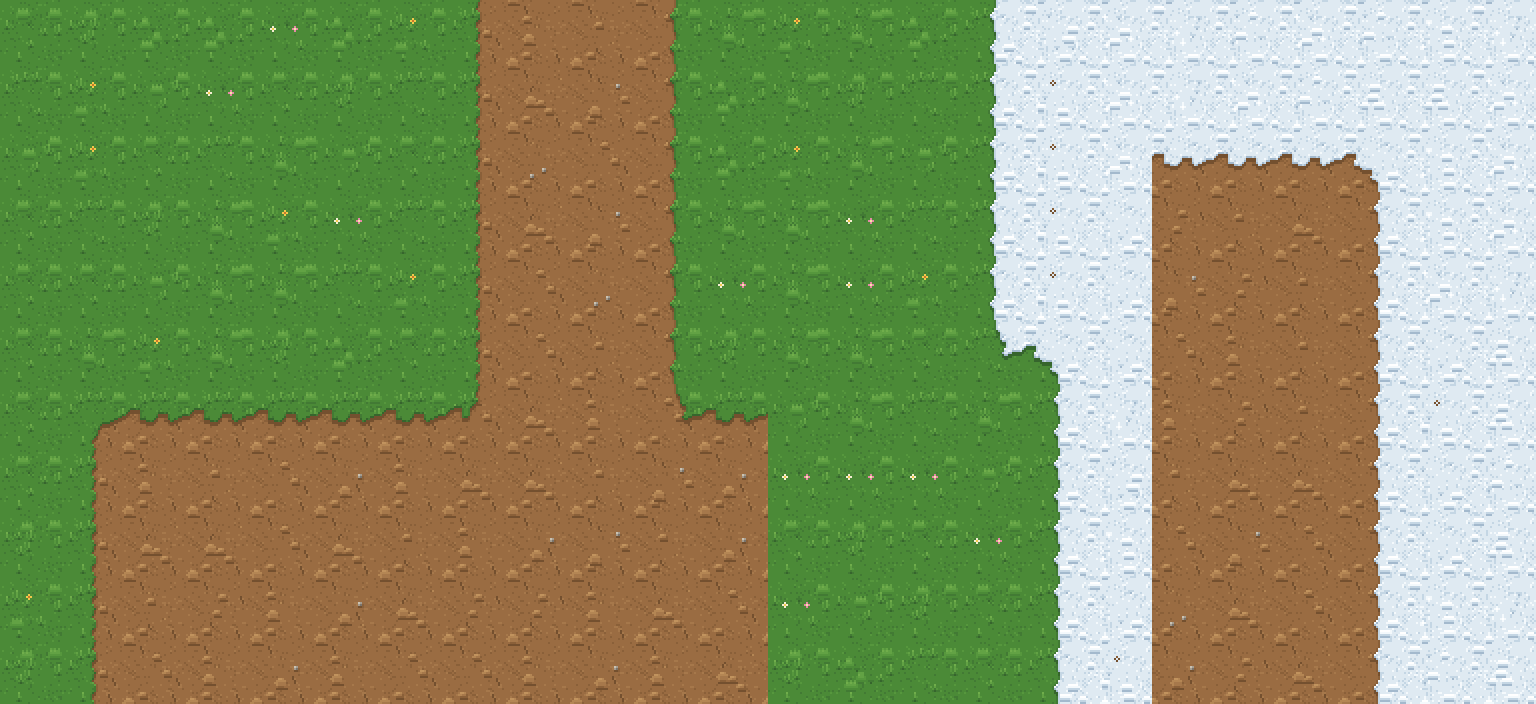
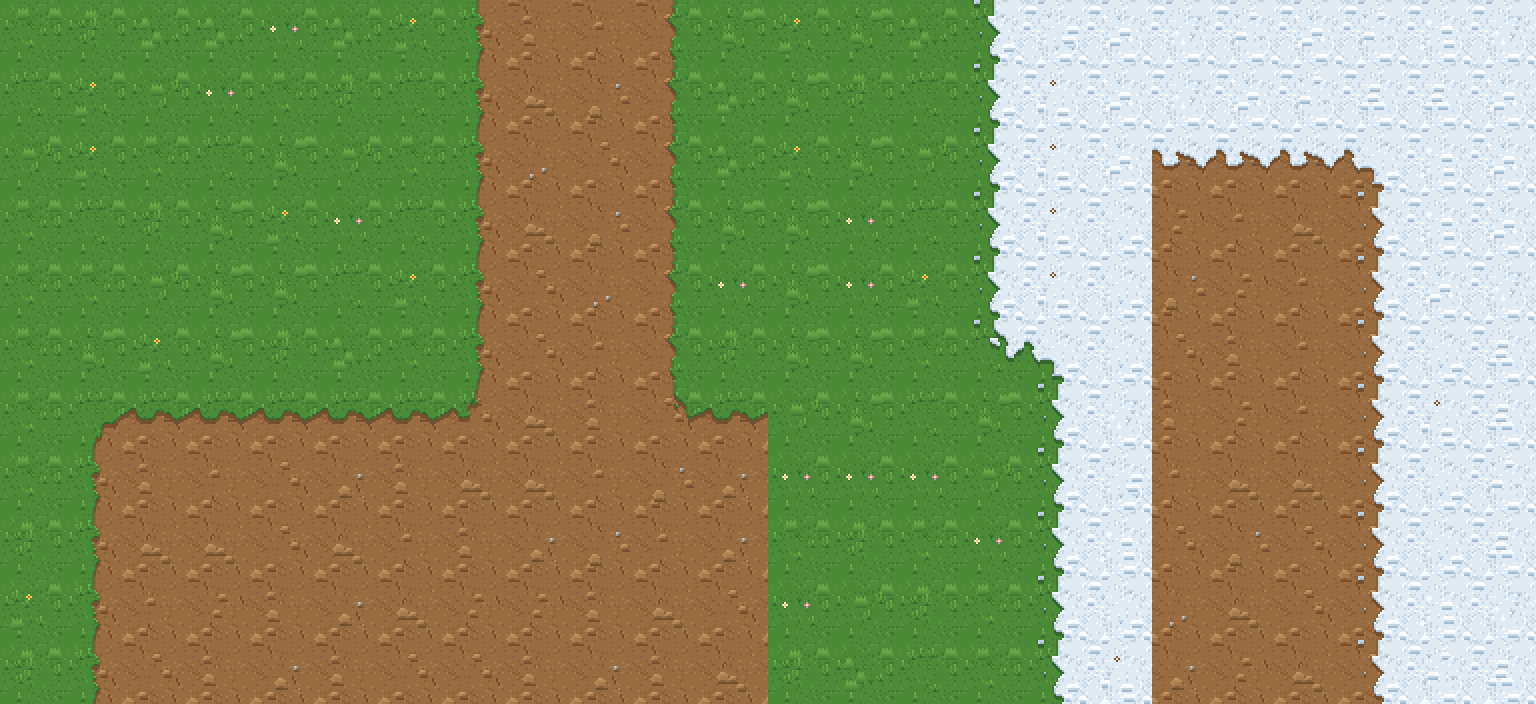
Ground tiles: wavier snow and dirt edges so borders do not cut as straight lines
Claude-Session: https://claude.ai/code/session_01UfpJh2yGrDMaNfv5mQuco1

diff --git a/tools/pixel-art/ground.py b/tools/pixel-art/ground.py
@@ -236,13 +236,14 @@ def smooth(u): return u * u * (3 - 2 * u)
 def wang_tile(lower, upper, nw, ne, sw, se, gi=0, di=0):
     """Köşe bitleri: 1 = lower. Upper dokusu lower'ın üstüne taşar; kenarda gölge ve açık uç."""
     lo, up = MAT[lower], MAT[upper]
+    amp = 0.42 if upper == 'snow' else 0.2      # kar kenarı daha dalgalı, düz çizgi gibi kesilmesin
     d, g = lo['tiles'][di].load(), up['tiles'][gi].load()
     LP, UP = lo['pal'], up['pal']
     im = Image.new('RGBA', (T, T)); px = im.load()
     def is_lower(x, y):
         u, v = smooth((x + 0.5) / T), smooth((y + 0.5) / T)
         m = (nw * (1 - u) * (1 - v) + ne * u * (1 - v) + sw * (1 - u) * v + se * u * v)
-        return m + 0.16 * pnoise(x, y, 77, ((2, 1.0), (4, 0.6))) > 0.5
+        return m + amp * pnoise(x, y, 77, ((2, 1.0), (3, 0.8), (4, 0.6), (6, 0.35))) > 0.5
     mask = [[is_lower(x, y) for x in range(T)] for y in range(T)]
     def M(x, y):
         return mask[min(T - 1, max(0, y))][min(T - 1, max(0, x))]
